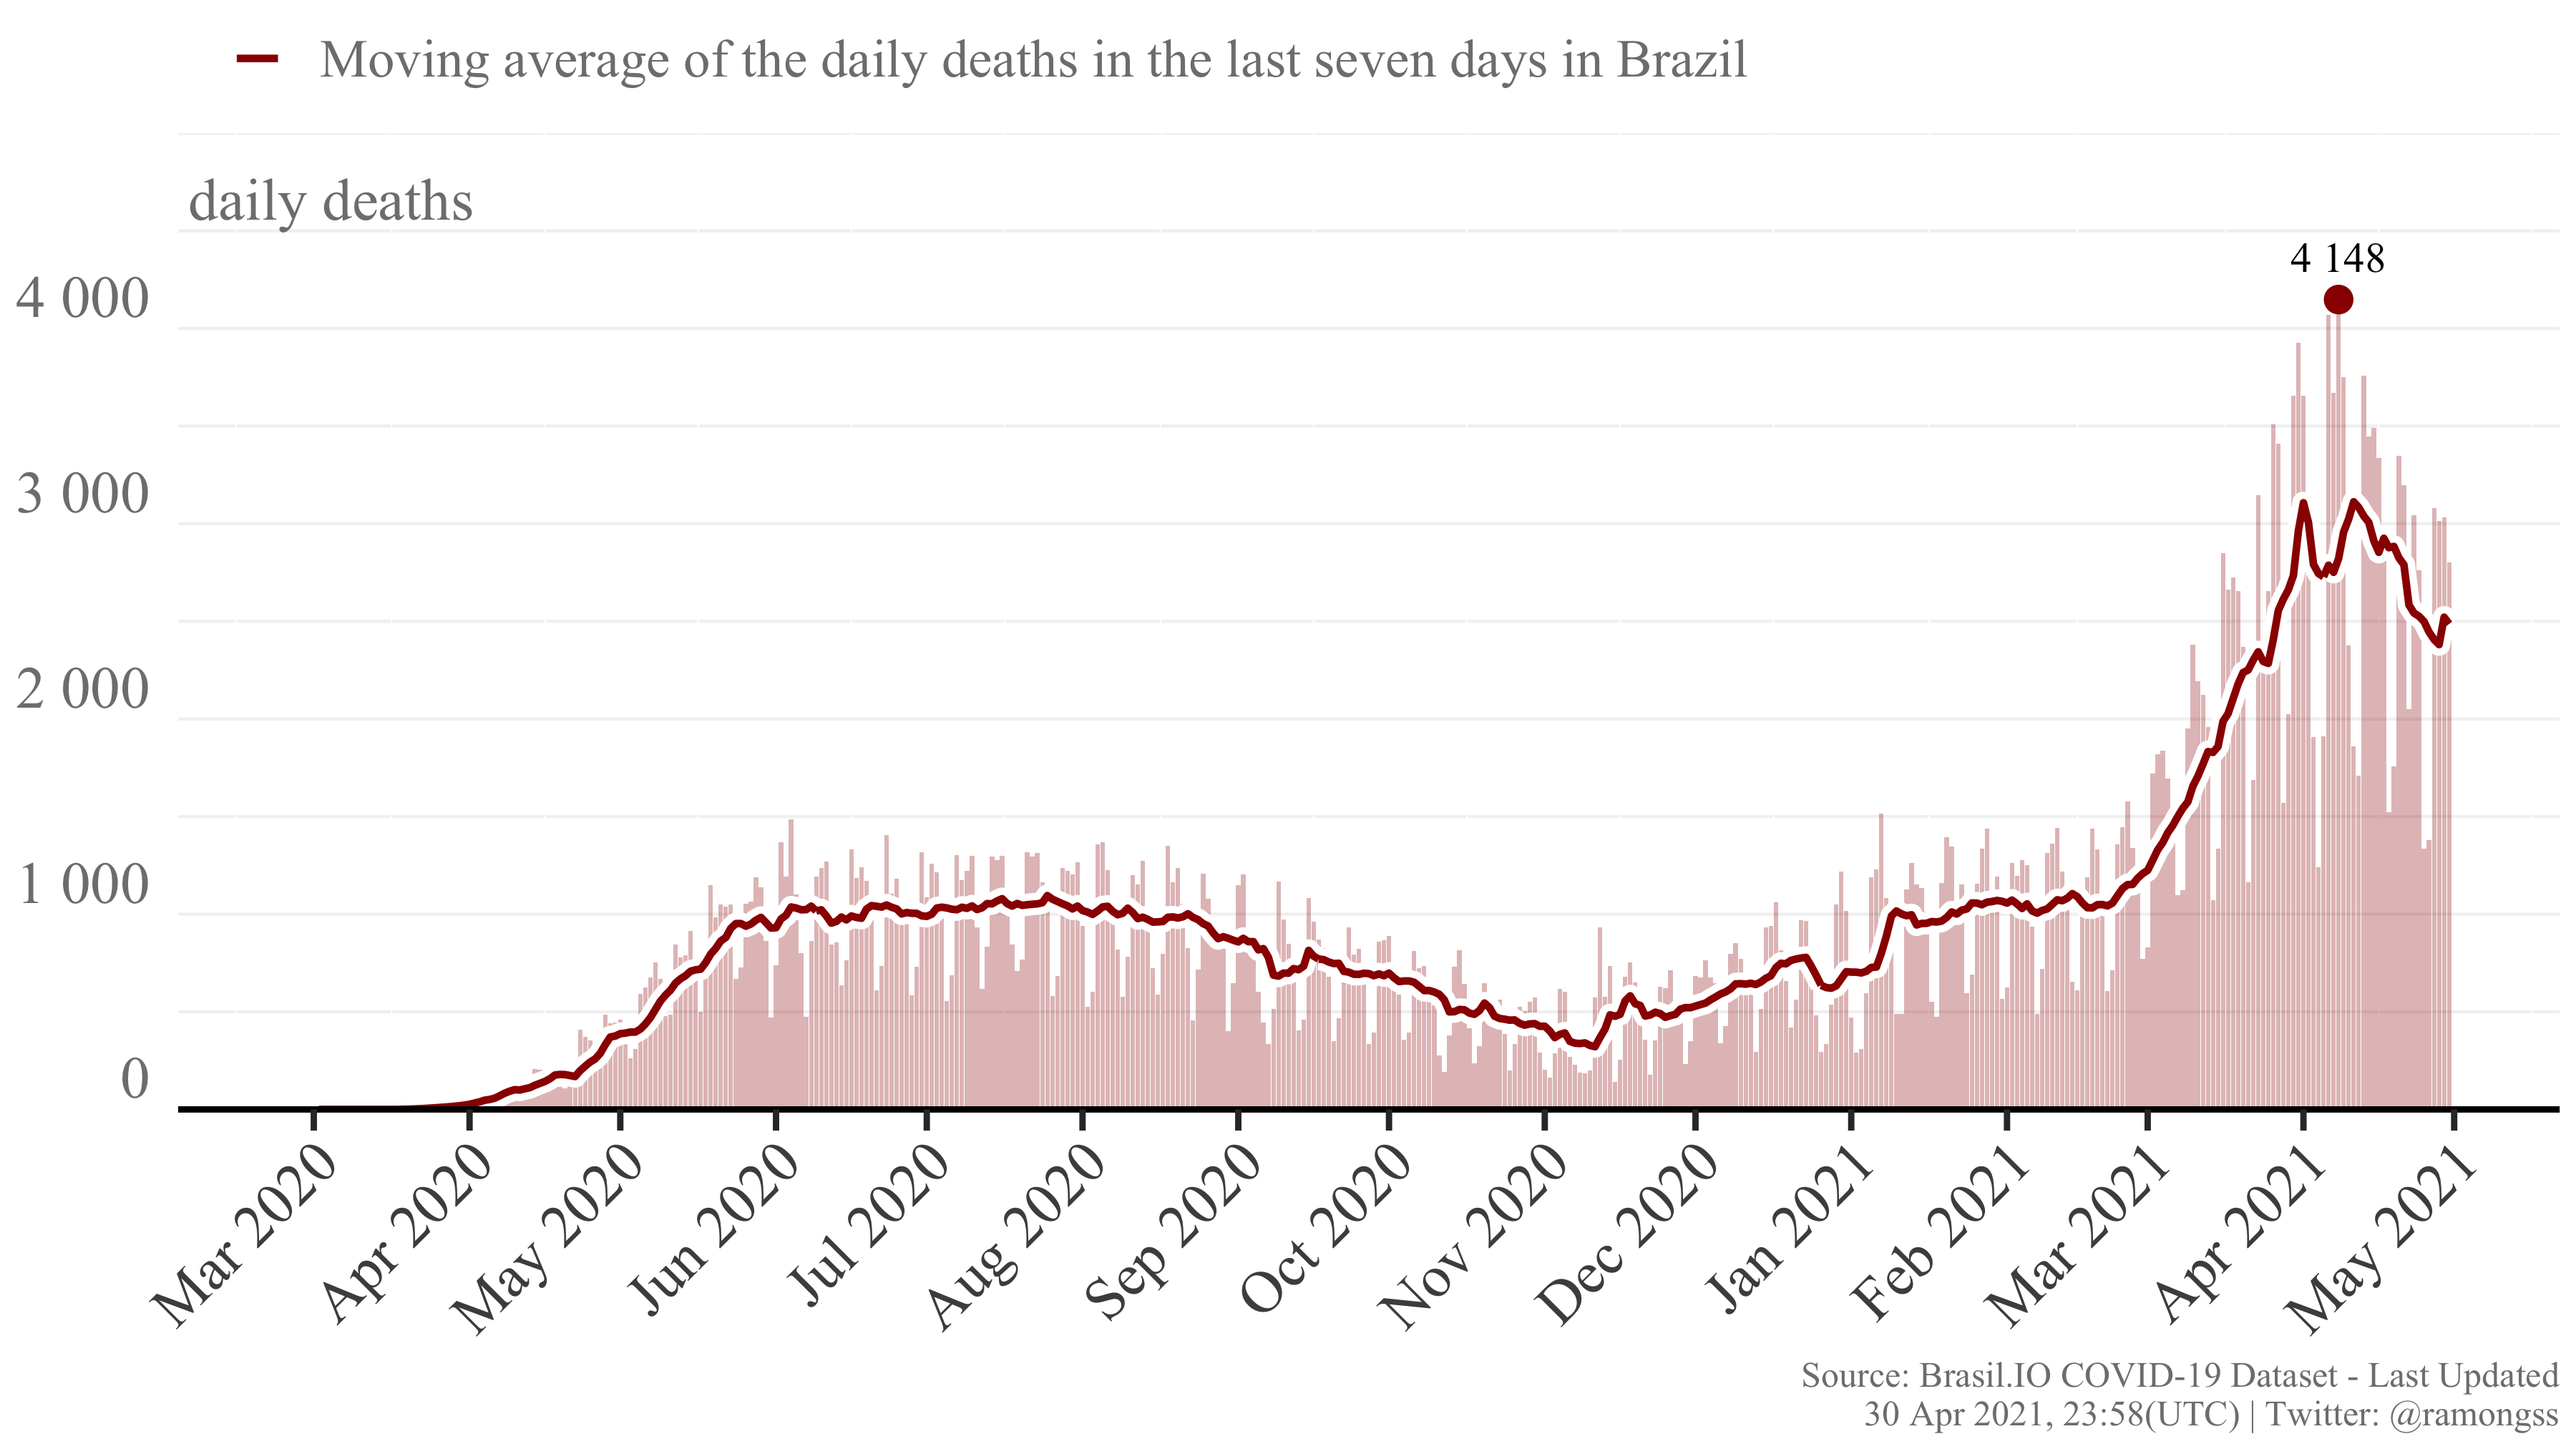
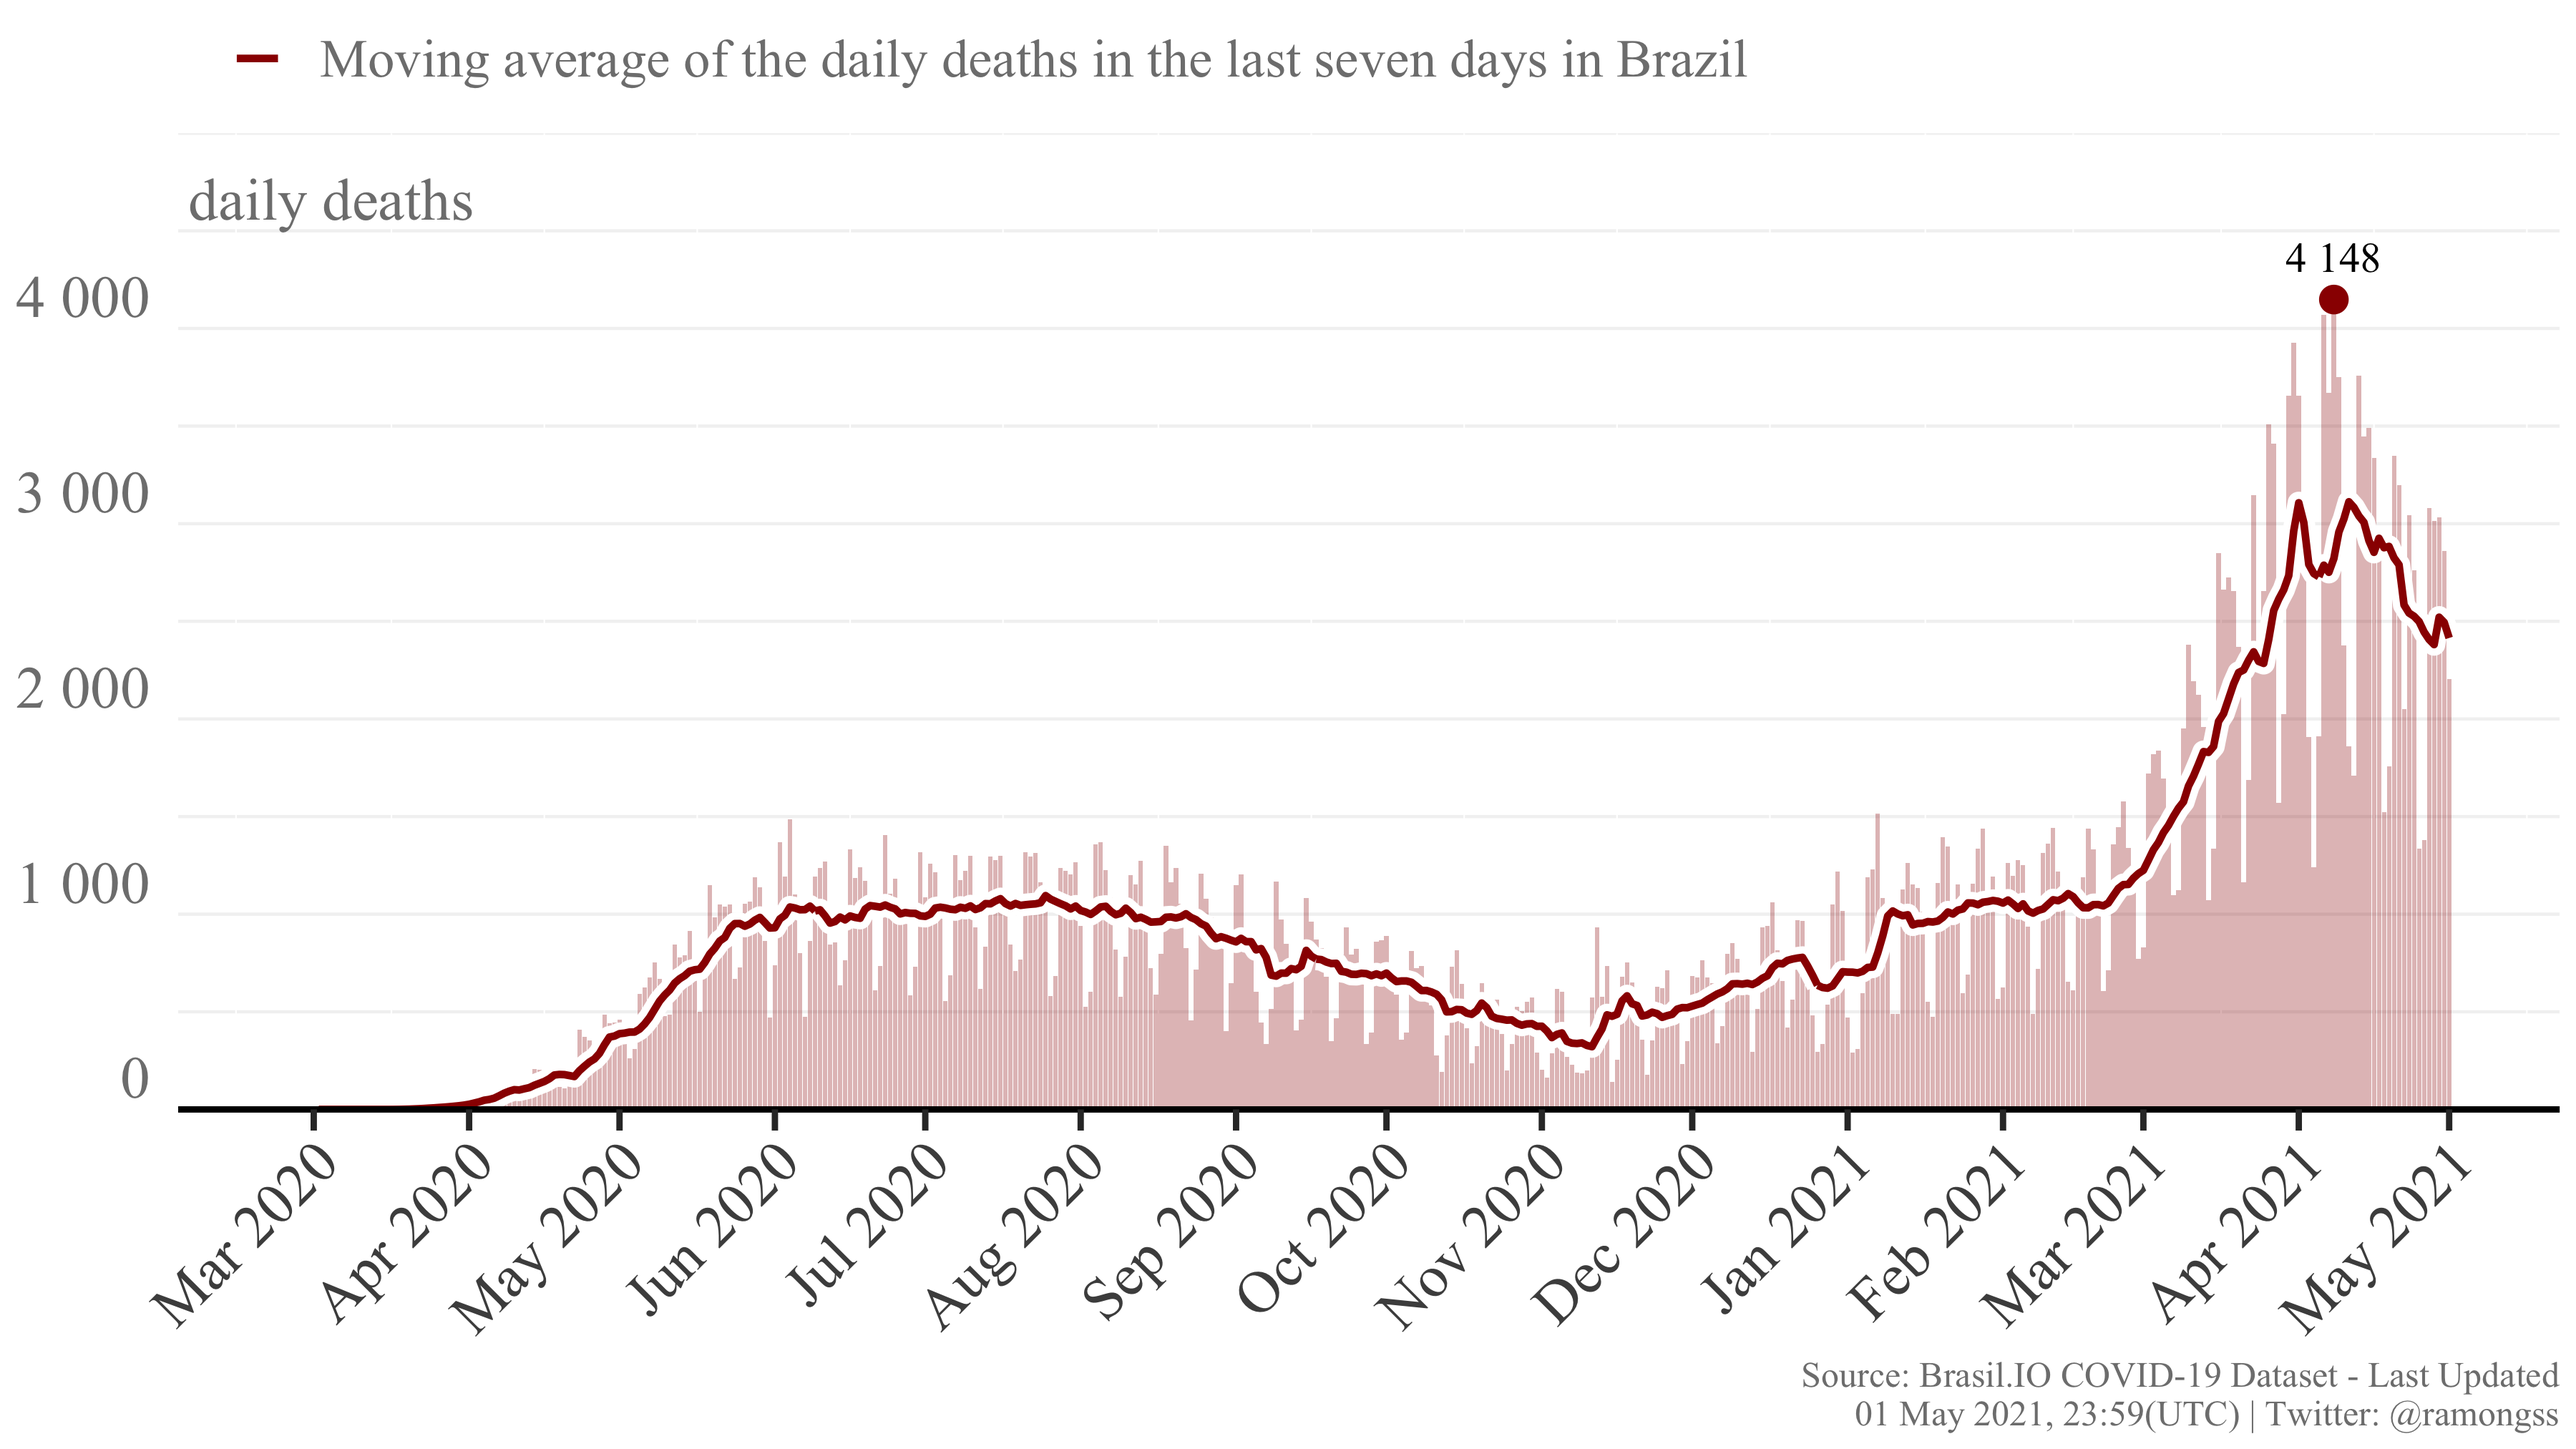
Re-build README.Rmd

diff --git a/README.md b/README.md
@@ -27,8 +27,8 @@ download_brasilio_table <- function(dataset = "covid19", table_name){
 
 ## COVID-19 Confirmed cases
 
-Currently, Brazil has a total of **14,673,518** confirmed cases at **30
-Apr, 2021**, with **70,422** new confirmed cases. The daily maximum
+Currently, Brazil has a total of **14,731,678** confirmed cases at **01
+May, 2021**, with **56,574** new confirmed cases. The daily maximum
 incidence was **98,261** confirmed cases at **25 Mar, 2021**. Here
 follows the Figure showing the confirmed case incidence as the bars, and
 the line as the moving average of the last 7 days.
@@ -37,8 +37,8 @@ the line as the moving average of the last 7 days.
 
 ## COVID-19 Deaths
 
-Currently, Brazil has a total of **404,471** deaths at **30 Apr, 2021**,
-with **2,802** new deaths. The daily maximum deaths incidence was
+Currently, Brazil has a total of **406,733** deaths at **01 May, 2021**,
+with **2,203** new deaths. The daily maximum deaths incidence was
 **4,148** deaths at **08 Apr, 2021**. Here follows the Figure showing
 the deaths incidence as the bars, and the line as the moving average of
 the last 7 days.
@@ -49,4 +49,4 @@ the last 7 days.
 
 This page is daily updated automatically using Github Actions.
 
-*Last update: 30 Apr 2021, 23:58 (UTC).*
+*Last update: 01 May 2021, 23:59 (UTC).*
